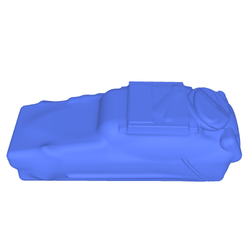
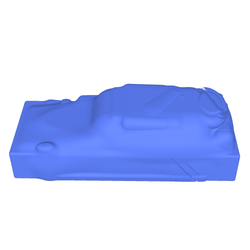
Update photogrammetry results and description

diff --git a/ExperimentsAndResults.tex b/ExperimentsAndResults.tex
@@ -572,11 +572,11 @@ This experiment demonstrates that the cascades are not structured. If each casca
 
 A unique benefit of the point cloud input format for CSG-CRN is the flexibility in acquiring input data. Surface point clouds can be easily generated using photogrammetry techniques. And a surface point cloud can be augment into an SDF point cloud input suitable for CSG-CRN.
 
-To demonstrate, we took videos circling 360 degrees around three objects. An open source tool COLMAP~\cite{schoenberger2016sfm} was used to extract frames, create depths maps, and output a point cloud scan. Some pre-processing is applied to the raw points to remove outliers, orient the shape into a canonical frame, and remove the floor plane. Then the necessary near-surface sample points can be generated by applying Gaussian and storing the offset as the distance. And the distances for uniform sample points can be computed using a K-d tree to find the closest surface sample.
+To demonstrate, we took videos circling 360 degrees around three objects. An open source tool COLMAP~\cite{schoenberger2016sfm} was used to extract frames, create depths maps, and output a point cloud scan. Some pre-processing is applied to the raw points to remove outliers, orient the shape into a canonical frame, and remove the floor plane. Similar to the ShapeNet dataset processing, near-surface sample points can be generated by applying Gaussian noise to the surface points. Distances for both near-surface and uniform points can be approximated using a K-d tree to find the closest surface sample.
 
-We apply this process to produce three SDF shape samples to run inference on. We experiment with the single-category model trained on the ShapeNet Car subset and the all-category model. The car subject is a known shape category that both models trained on while the rabbit and teddy bear subjects are unknown categories. Since there is no ground-truth mesh to validate against, we compute accuracy as the IoU metric between the reconstruction and input SDF point clouds.
+We apply this process to produce three SDF shape samples to run inference on. We experiment with the single-category model trained on the ShapeNet Car subset and the all-categories model. The car subject is a known shape category that both models trained on while the rabbit and teddy bear subjects are unknown categories. Since there is no ground-truth mesh to validate against, we compute accuracy as the IoU metric between the reconstruction and input SDF point clouds.
 
-The single-category model produced the best reconstruction of the four. Although the input point cloud did not capture wheels, the reconstruction includes wheels thanks to the learned shape template. The all-category model produced acceptable reconstructions for the Car and Rabbit samples while the Teddy Bear sample was the worst.
+As expected, the single-category model produced the best reconstruction of the four. It produces a smooth surface and a more defined windshield than the all-categories model does. Both models were able to reconstruct the windows missing from the photogrammetry scan due to glare. The all-category model produced a decent approximation of the rabbit. The general shape and contains a head and ears, but it lacks much detail. The reconstruction of the teddy bear sample is the worst result with the model failing to reconstruct the arms and legs.
 
 
 \begin{figure}[ht]
@@ -611,7 +611,7 @@ The single-category model produced the best reconstruction of the four. Although
 		\includegraphics[width=0.13\textwidth]{Images/Photogrammetry Renders/Teddy Bear Reconstruction.png}
 
 		\footnotesize
-		\makebox[0.13\textwidth]{IoU 0.7665}
+		\makebox[0.13\textwidth]{IoU 0.8865}
 		\hspace{0.03\textwidth}
 		\makebox[0.13\textwidth]{IoU 0.7252}
 		\hspace{0.03\textwidth}
@@ -624,7 +624,7 @@ The single-category model produced the best reconstruction of the four. Although
 		\includegraphics[width=0.13\textwidth]{Images/Photogrammetry Renders/Car Reconstruction Single Category.png}
 
 		\footnotesize
-		\makebox[0.13\textwidth]{IoU 0.8123}
+		\makebox[0.13\textwidth]{IoU 0.8986}
 		\caption{Single-Category Car Model Reconstruction}
 	\end{subfigure}
 	\caption{Reconstructing CSG Models from scans of real-world objects. The first row depicts frames from the video scan. The second row shows the surface point clouds extracted through photogrammetry. And the last two rows show CSG-CRN reconstructions.}

diff --git a/Introduction.tex b/Introduction.tex
@@ -7,7 +7,7 @@ Recent advances in science, technology, and engineering have created a demand fo
 
 Traditional methods for 3D shape analysis require features to be manually engineered using prior knowledge of a problem. Although engineered features are easy to interpret, the process is laborious and overlooks potentially useful information. Research efforts have since shifted to deep learning techniques that automatically learn the most relevant features~\cite{Bengio2013}. The improved feature extraction allows for more complex and varied reconstructions than is possible using traditional methods. In addition, the learned feature vectors can be applied to analysis problems such as object classification and inference of missing geometry~\cite{Park2019}.
 
-One of the primary challenges in applying deep learning to 3D reconstruction is selecting a suitable representation for the inputs and outputs of a neural network. The representation must be concise enough for effective training while retaining enough information for an accurate reproduction. Related work employs a variety of 3D representations, each with unique benefits and challenges~\cite{Xiao2020}. These representations are further discussed in the \nameref{sec:3d_representations} section of the \nameref{chap:related_work} chapter.
+One of the primary challenges in applying deep learning to 3D reconstruction is selecting a suitable representation for the inputs and outputs of a neural network. The representation must be concise enough for effective training while retaining enough information for an accurate reproduction. Related work employs a variety of 3D representations, each with unique benefits and challenges~\cite{Xiao2020}. These representations are further discussed in the \nameref{chap:related_work} chapter.
 
 Recent work~\cite{Sharma2018, Kania2020, Ren2021} has explored the use of Constructive Solid Geometry (CSG) in deep learning. A CSG model defines a volume as a composition of simple shape primitives. Primitives are combined using boolean operations such as union, difference, and intersection. Each primitive is transformed using translation, rotation, and scaling operations. The available primitive shapes are restricted to a predefined set of manifold surfaces. CSG models are more compact than than other 3D representations. And by virtue of their construction, all CSG models are continuous and manifold surfaces bounding an interior volume. Additionally, editing a CSG model is convenient since each constituent primitive can be independently modified~\cite{Hughes2013}.
 
